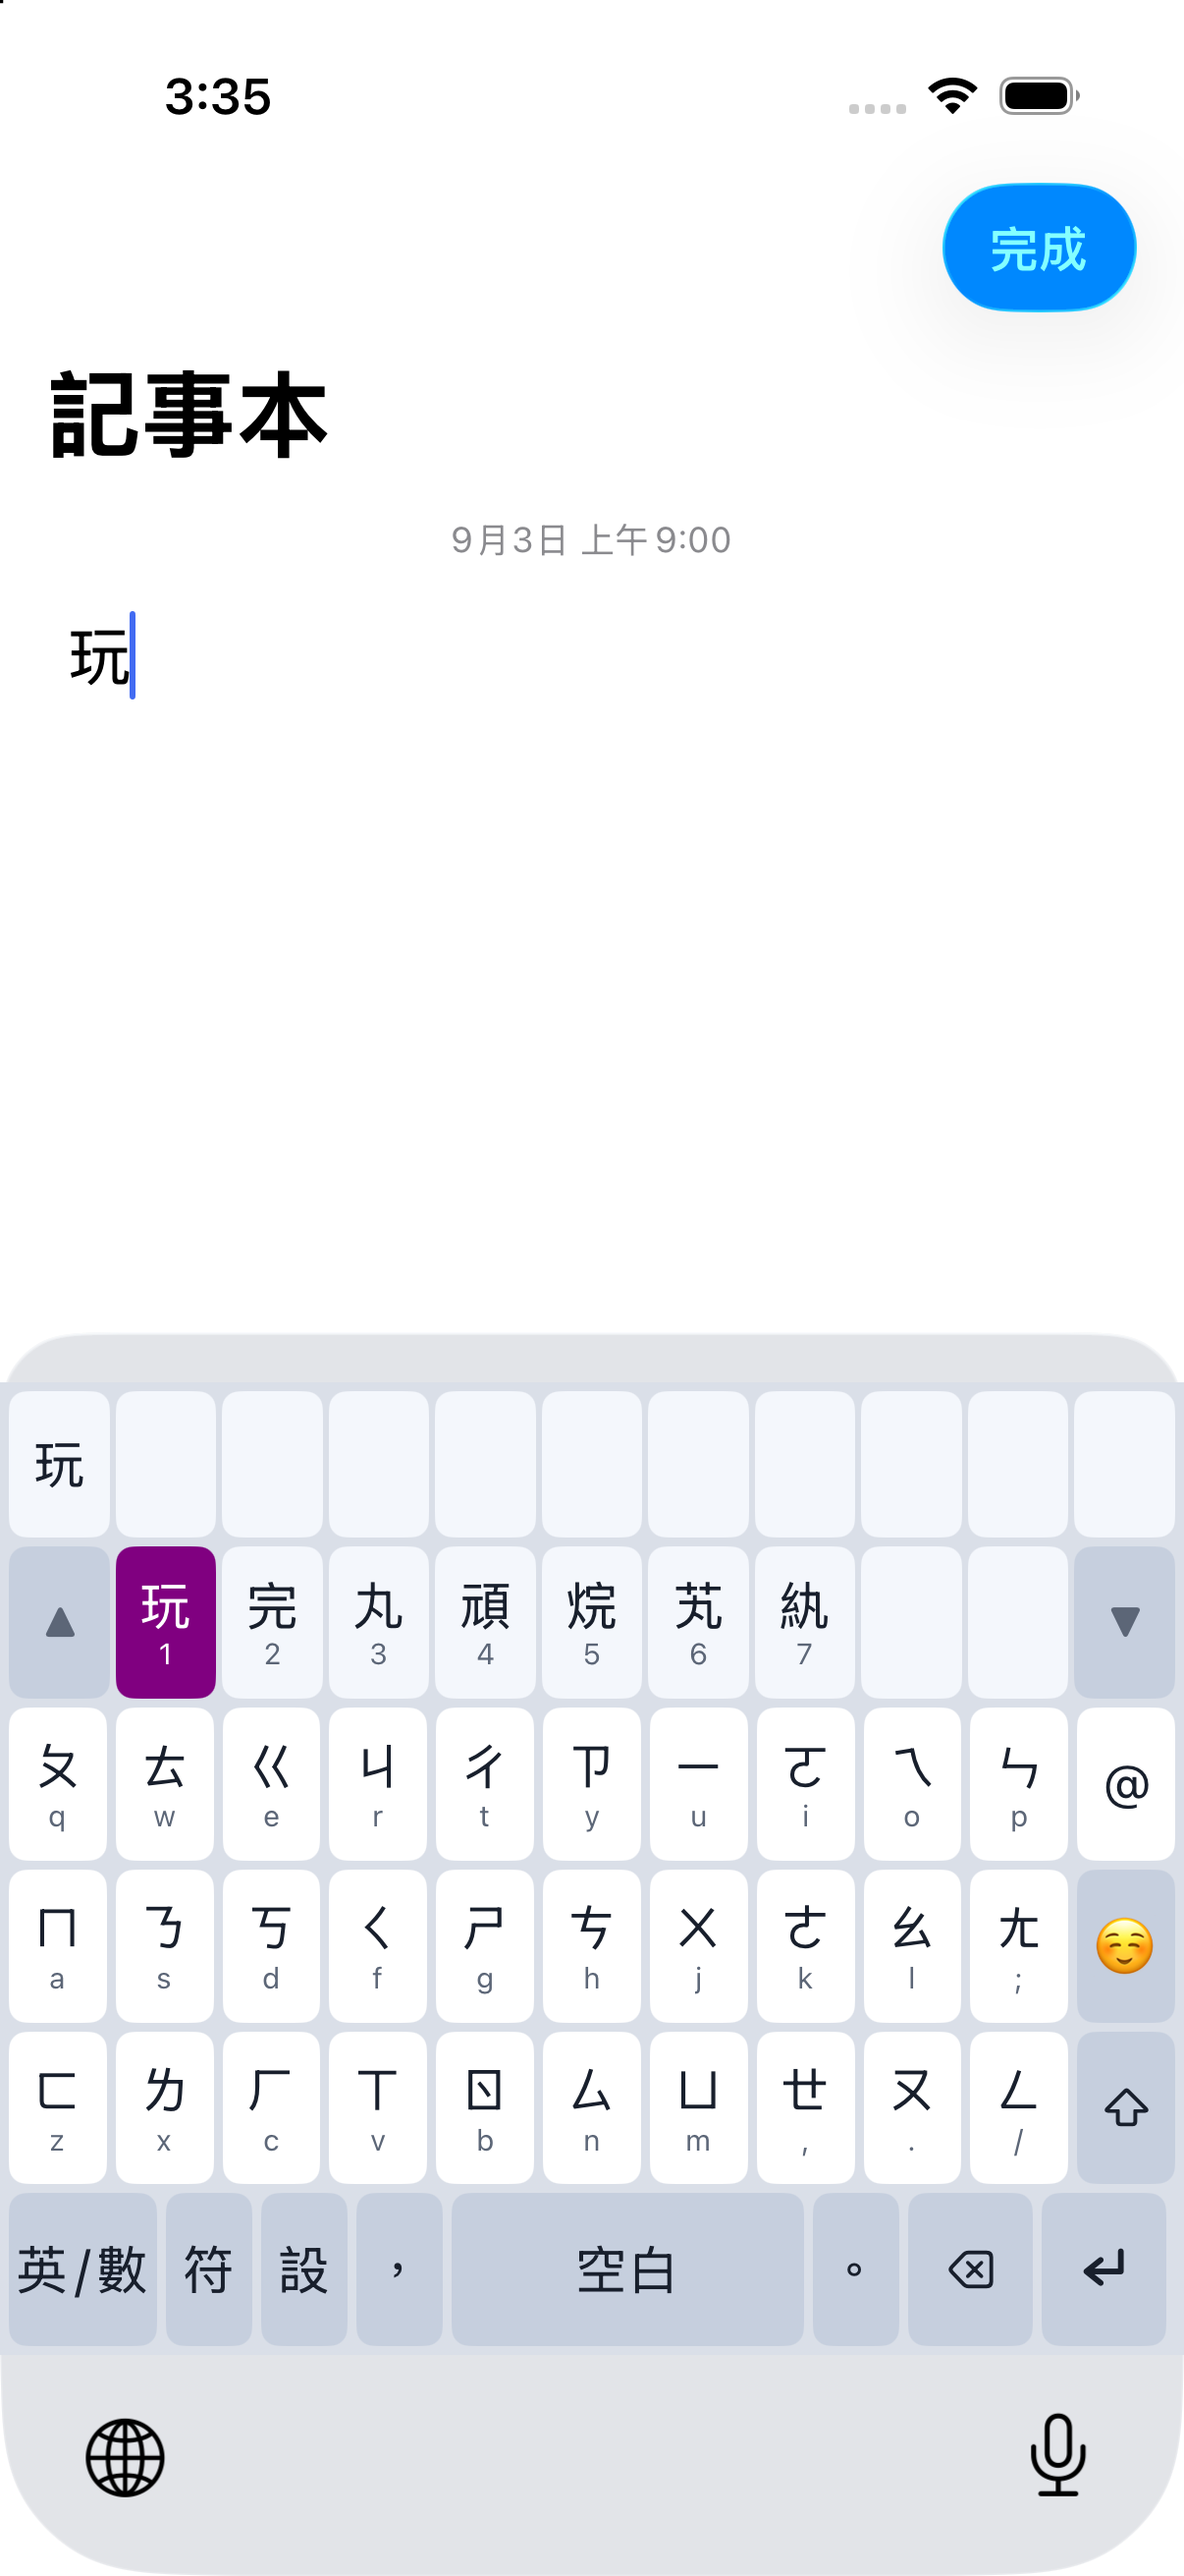
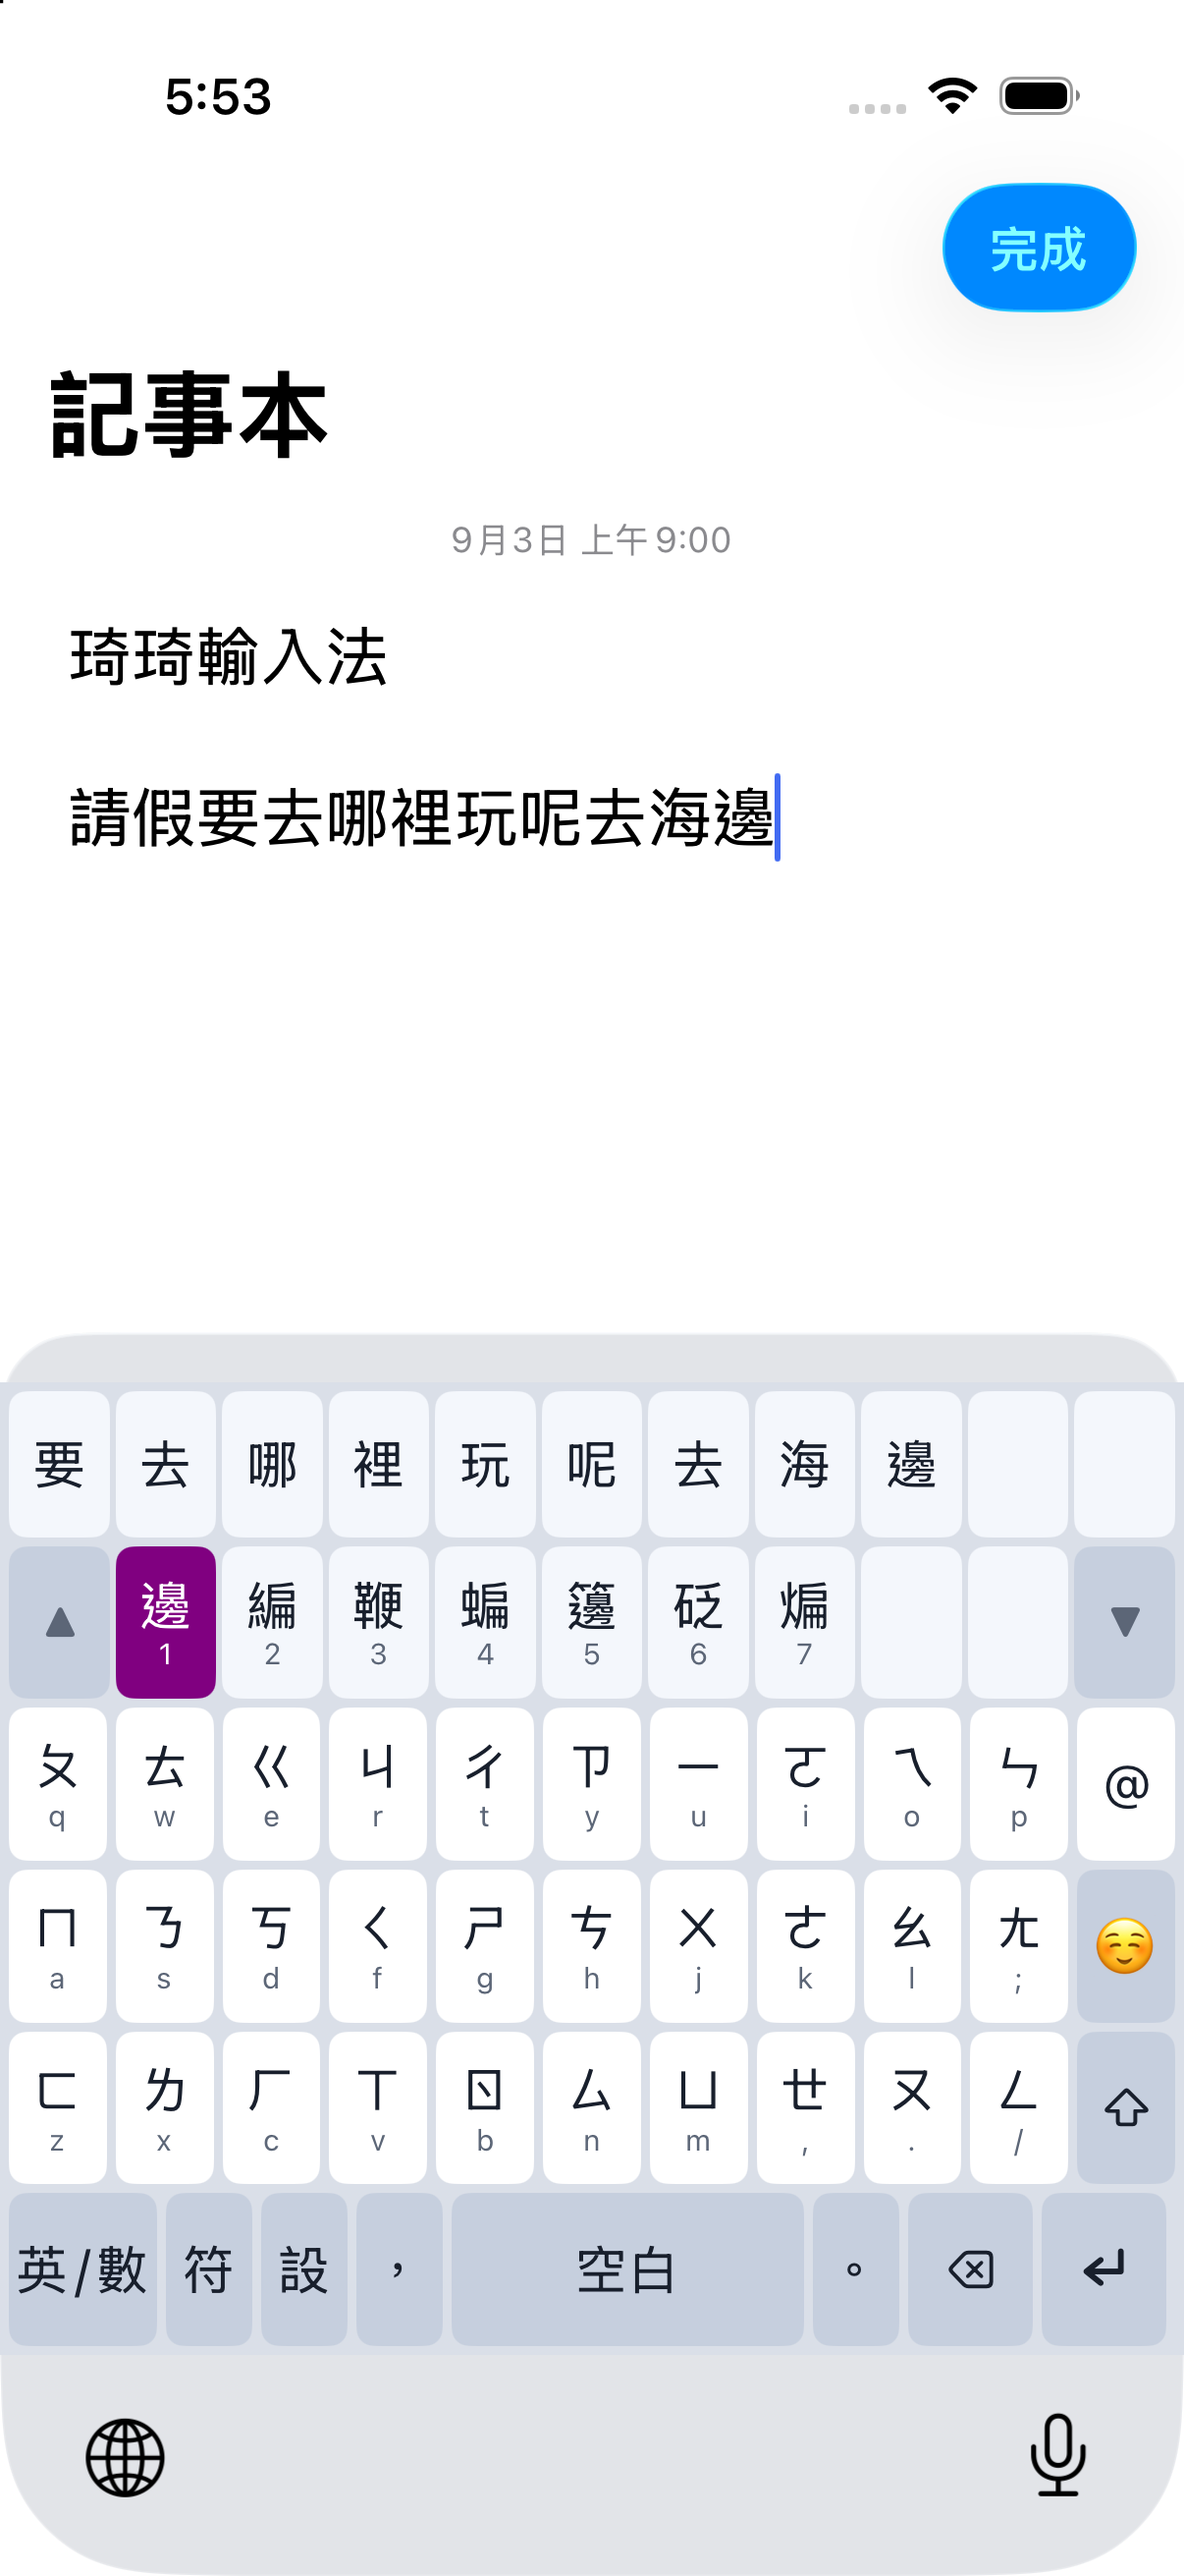
Use original sentence in iPhone space candidate screenshot

diff --git a/docs/CROSS_PLATFORM_SCREENSHOT_PLAN.md b/docs/CROSS_PLATFORM_SCREENSHOT_PLAN.md
@@ -144,7 +144,7 @@ FreeBSD 透過官方 ports／pkg 取得及更新；拍攝套件庫查詢、ports
 | IOS-09 | P1 | 已入文：觸控設定及候選 | 觸控倉頡「即時候選」「未打完也能選字」均勾選，只輸入「竹大」，候選第 2 項可見「喬」。 | 倉頡可在字碼尚未輸入完成時，從候選中提前選字。 |
 | IOS-10 | P1 | 已入文：iPad 模擬器 8 張原圖及 1 張局部圖；實機待驗 | 啟用開關、地球鍵清單、直／橫向玩候選、橫向續打與確認、觸控倉頡兩個選項及竹大／喬候選；原圖或連結均附實際方向。 | iPad 在提醒事項附註欄組句與選字，直橫向使用相同入口；只輸入竹大即可看到喬。 |
 | IOS-11 | P2 | 部分入文：模擬器編輯器及 iPhone 複製確認；11d 實機／11e 貼上／11f 分享已占位 | 琦琦 App 前景編輯器接收模擬器 Generic Keyboard 按鍵；iPad 另拍橫向四欄與玩候選，複製確認仍為 iPhone。USB／藍牙、分享與跨 App 貼上待實機驗證。 | 外接鍵盤請使用琦琦 App 內的實體鍵盤編輯器，完成後複製或分享文字。 |
-| IOS-12 | P2 | 部分入文：App 開關與觸控候選；12c 翻頁已占位 | App 內空白鍵選字關閉見 IOS-08b；暫時開啟並實測輸入「玩」後按空白開候選，兩張入文。完成後恢復關閉；多頁翻頁另驗。 | 可在 App 設定是否以空白鍵開候選與翻頁，設定與 App 內實體鍵盤編輯器共用。 |
+| IOS-12 | P2 | 部分入文：App 開關與觸控候選；12c 翻頁已占位 | App 內空白鍵選字關閉見 IOS-08b；暫時開啟並實測完整原句「請假要去哪裡玩呢去海邊」，完成句尾「邊」的一聲後再按空白開候選，兩張入文。完成後恢復關閉；多頁翻頁另驗。 | 可在 App 設定是否以空白鍵開候選與翻頁，設定與 App 內實體鍵盤編輯器共用。 |
 
 ## 7. macOS
 
@@ -244,7 +244,7 @@ FreeBSD 透過官方 ports／pkg 取得及更新；拍攝套件庫查詢、ports
 | IOS-11a | [原圖](images/keykey-ios-v137-ios11a-hardware-editor-iphone17pro-simulator.png) | v1.3.7 tag a11f1eab／Xcode 27.1（27A9275）原本 Debug 組態自建；App／extension 1.3.7（build 1） | iOS 26.5／琦琦 App 前景編輯器／Generic Keyboard | iPhone 17 Pro arm64 模擬器 | 2026-10-24 | 請假已固定，後段仍為紫色組字，左側為呢候選，保留複製與分享入口。／實體鍵盤 |
 | IOS-11b | [原圖](images/keykey-ios-v137-ios11b-copy-confirmation-iphone17pro-simulator.png) | v1.3.7 tag a11f1eab／Xcode 27.1（27A9275）原本 Debug 組態自建；App／extension 1.3.7（build 1） | iOS 26.5／琦琦 App 前景編輯器／Generic Keyboard | iPhone 17 Pro arm64 模擬器 | 2026-10-24 | 按複製後文字確認、候選清空，顯示已複製提示；不作跨 App 貼上驗證。／實體鍵盤 |
 | IOS-12a | [原圖](images/keykey-ios-v137-ios12a-space-select-on-iphone17pro-simulator.png) | v1.3.7 tag a11f1eab／Xcode 27.1（27A9275）原本 Debug 組態自建；App／extension 1.3.7（build 1） | iOS 26.5／琦琦 App 設定 | iPhone 17 Pro arm64 模擬器 | 2026-10-24 | 使用空白鍵選字暫時開啟；拍攝完成已恢復關閉。／空白鍵選字 |
-| IOS-12b | [原圖](images/keykey-ios-v137-ios12b-space-candidates-iphone17pro-simulator.png) | v1.3.7 tag a11f1eab／Xcode 27.1（27A9275）原本 Debug 組態自建；App／extension 1.3.7（build 1） | iOS 26.5／記事本測試 App／觸控鍵盤 | iPhone 17 Pro arm64 模擬器 | 2026-10-24 | 完成玩讀音後按空白開候選，未點組字格。／空白鍵選字 |
+| IOS-12b | [原圖](images/keykey-ios-v137-ios12b-space-candidates-iphone17pro-simulator.png) | v1.3.7 tag a11f1eab／Xcode 27.1（27A9275）原本 Debug 組態自建；App／extension 1.3.7（build 1） | iOS 26.5／記事本測試 App／觸控鍵盤 | iPhone 17 Pro arm64 模擬器 | 2026-10-24 | 首行「琦琦輸入法」已確認並換行；次行保留完整原句「請假要去哪裡玩呢去海邊」，後段仍在組字。以空白完成「邊」的一聲，再按空白開候選，未點組字格。／空白鍵選字 |
 | IOS-10a／IOS-04 補充 | [原圖](images/keykey-ios-v137-ios10a-enable-keyboard-ipadpro13m5-simulator.png) | v1.3.7 tag a11f1eab／Xcode 27.1（27A9275）既有 Debug 組態；App／extension 1.3.7（build 1） | iPadOS 26.5／系統設定／直向 | iPad Pro 13 吋（M5）arm64 模擬器 | 2026-10-24 | 從 App 設定的鍵盤開關啟用琦琦，沒有完整取用開關。／iPad 啟用 |
 | IOS-10b／IOS-07 補充 | [原圖](images/keykey-ios-v137-ios10b-middle-candidate-portrait-ipadpro13m5-simulator.png) | v1.3.7 tag a11f1eab／Xcode 27.1（27A9275）既有 Debug 組態；App／extension 1.3.7（build 1） | iPadOS 26.5／提醒事項附註／直向觸控鍵盤 | iPad Pro 13 吋（M5）arm64 模擬器 | 2026-10-24 | 兩行指定文字，第二行未先確認，玩候選展開。／iPad 直向 |
 | IOS-10c／IOS-07 補充 | [原圖](images/keykey-ios-v137-ios10c-middle-candidate-landscape-ipadpro13m5-simulator.png) | v1.3.7 tag a11f1eab／Xcode 27.1（27A9275）既有 Debug 組態；App／extension 1.3.7（build 1） | iPadOS 26.5／提醒事項附註／橫向觸控鍵盤 | iPad Pro 13 吋（M5）arm64 模擬器 | 2026-10-24 | 橫向重新實際輸入兩行，玩候選展開；原圖連結入文。／iPad 橫向 |
